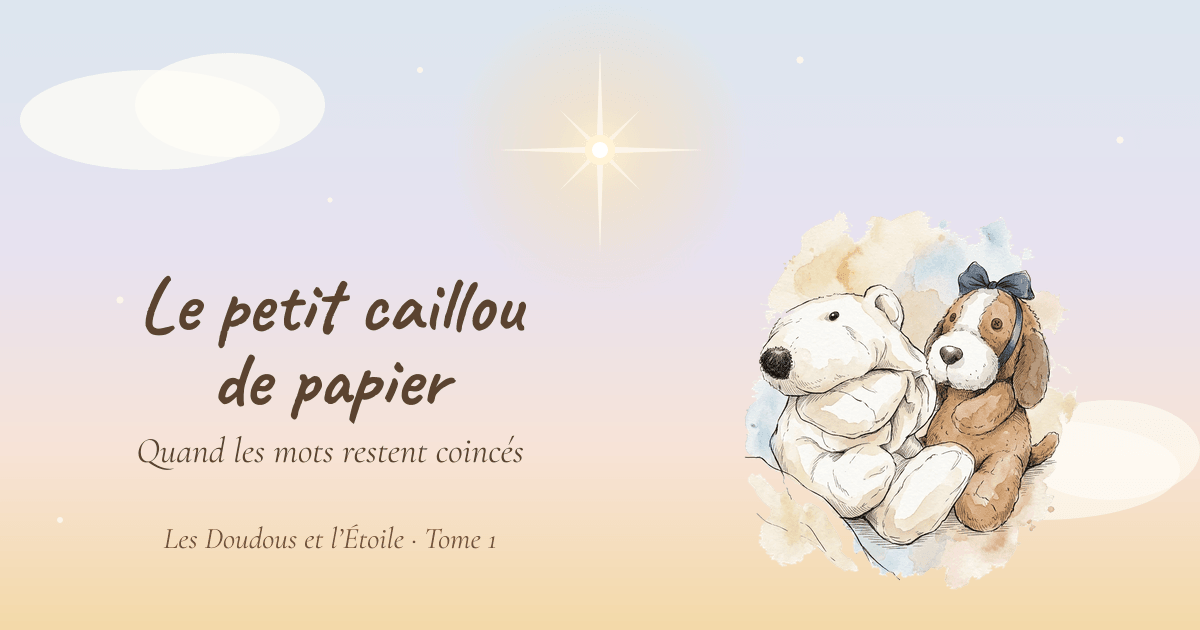
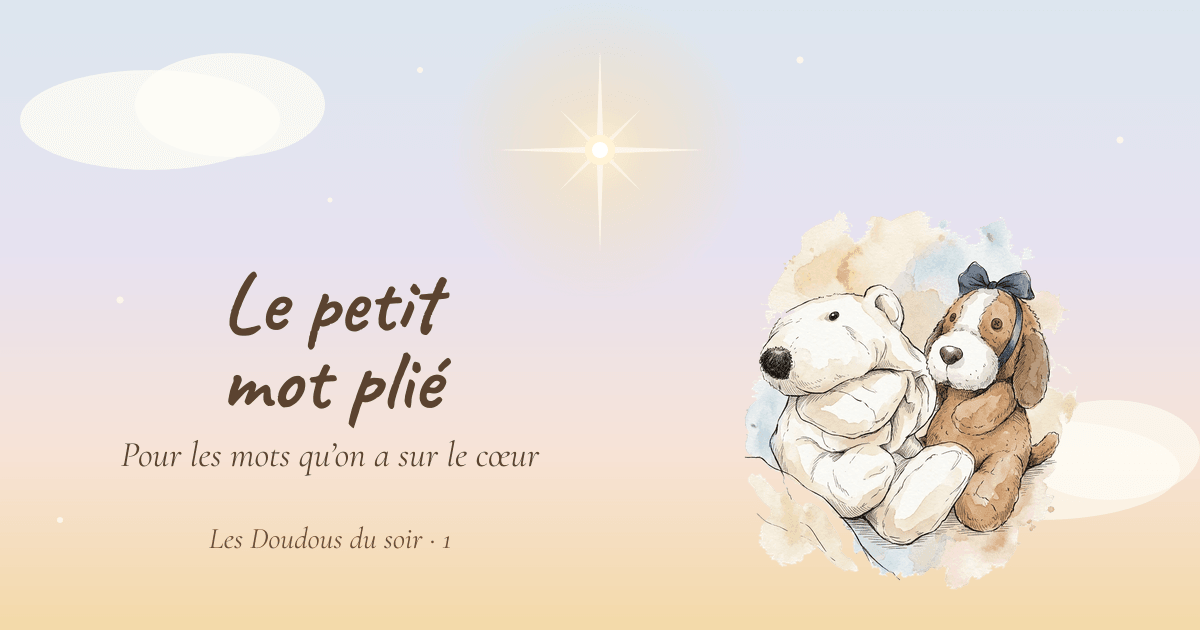
Le tome 1 s'appelle « Le petit mot plié » : titre, sous-titre, promesse de la série, image de partage, fiche, audio, menu, mentions

diff --git a/le-livre.html b/le-livre.html
@@ -9,14 +9,14 @@
 <meta property="og:image" content="https://www.lafilleaustylorose.com/images/partage.png">
 <meta property="og:image:width" content="1200"><meta property="og:image:height" content="630">
 <meta property="og:type" content="website"><meta property="og:locale" content="fr_FR">
-<meta property="og:description" content="Le petit caillou de papier, Les Doudous du soir · Tome 1 : certains soirs, les mots ont envie de sortir… et restent coincés.">
+<meta property="og:description" content="Le petit mot plié, Les Doudous du soir · Tome 1 : ce soir, un mot reste coincé… Des histoires du soir pour les grandes émotions des petits.">
 <meta property="og:url" content="https://www.lafilleaustylorose.com/le-livre.html">
-<meta property="og:image:alt" content="Le petit caillou de papier, Les Doudous et l'Étoile : l'Étoile et les Doudous dans le ciel du soir">
+<meta property="og:image:alt" content="Le petit mot plié, Les Doudous du soir : l'Étoile et les Doudous dans le ciel du soir">
 <meta name="twitter:card" content="summary_large_image">
 <!-- TODO (avant le lancement public) : retirer la ligne noindex ci-dessous ET vider robots.txt -->
 <meta name="robots" content="noindex, nofollow">
 <!-- TODO : description de la page -->
-<meta name="description" content="Le petit caillou de papier, Les Doudous du soir · Tome 1 : certains soirs, les mots ont envie de sortir… et restent coincés.">
+<meta name="description" content="Le petit mot plié, Les Doudous du soir · Tome 1 : ce soir, un mot reste coincé… Des histoires du soir pour les grandes émotions des petits.">
 <meta name="theme-color" content="#EFE3CE">
 <link rel="icon" href="favicon.svg" type="image/svg+xml">
 <link rel="icon" href="favicon-32.png" sizes="32x32" type="image/png">
@@ -52,25 +52,26 @@
   <!-- EMPLACEMENT IMAGE : quand la vraie couverture existe, remplacer tout le <div class="couverture"> par
        <img class="format-livre" src="images/livres/livre-1-couverture.webp" width="300" height="400" alt="…"> -->
   <div class="cadre-aquarelle cadre-livre apparait">
-   <div class="couverture" role="img" aria-label="Couverture provisoire : Le petit caillou de papier">
+   <div class="couverture" role="img" aria-label="Couverture provisoire : Le petit mot plié">
     <span class="couv-collection">Les Doudous du soir</span>
     <span class="couv-etoile" aria-hidden="true"><svg viewBox="-100 -100 200 200" focusable="false"><circle r="110" fill="url(#couv-degrade)"/><defs><radialGradient id="couv-degrade"><stop offset="0" stop-color="#FFF3D6"/><stop offset=".35" stop-color="#FAE2B8" stop-opacity=".5"/><stop offset="1" stop-color="#F6D9A8" stop-opacity="0"/></radialGradient></defs><path d="M0 -70 L3 -3 L70 0 L3 3 L0 70 L-3 3 L-70 0 L-3 -3Z" fill="#FFF3D6"/><path d="M0 -38 L2.2 -2.2 L38 0 L2.2 2.2 L0 38 L-2.2 2.2 L-38 0 L-2.2 -2.2Z" fill="#FFF3D6" fill-opacity=".8" transform="rotate(45)"/><circle r="9" fill="#FFFFFF"/></svg></span>
-    <span class="couv-titre">Le petit caillou<br>de papier</span>
-    <span class="couv-sous">Quand les mots restent coincés</span>
+    <span class="couv-titre">Le petit<br>mot plié</span>
+    <span class="couv-sous">Pour les mots qu’on a sur le cœur</span>
     <span class="couv-caillou" aria-hidden="true"></span>
     <span class="couv-autrice">La fille au stylo rose</span>
    </div>
   </div>
   <div class="livre-texte apparait">
    <p class="collection">Les Doudous du soir · Tome 1</p>
-   <h2>Le petit caillou de papier</h2>
-   <p class="sous-titre">Quand les mots restent coincés</p>
+   <p class="promesse">Des histoires du soir pour les grandes émotions des petits</p>
+   <h2>Le petit mot plié</h2>
+   <p class="sous-titre">Pour les mots qu’on a sur le cœur</p>
    <p class="etiquette">Bientôt disponible</p>
    <!-- Résumé : texte de Nath -->
    <div class="resume">
-    <p class="chapeau">Certains soirs, les mots ont envie de sortir… et restent coincés. Lili joue du piano quand un mot, plus gros que les autres, se cache tout au fond d’elle.</p>
+    <p class="chapeau">Ce soir, un mot reste coincé… Lili joue du piano quand un mot, plus gros que les autres, se cache tout au fond d’elle.</p>
     <p>Doudou Tout-Mou, petit ours farceur et bavard, et son grand frère Doudou Grosse Tête, vieux chien rigolo qui sait toujours avant tout le monde, vont l’accompagner, tout doucement, guidés par leur Étoile.</p>
-    <p>Une histoire du soir pour les enfants de 4 à 7 ans qui gardent leurs mots pour eux ou ont peur de déranger. Au fil des pages, l’enfant découvre des gestes simples à refaire chez lui : la main sur le cœur et la respiration, le stylo qui montre le chemin, et le petit caillou de papier à garder dans sa poche.</p>
+    <p>Une histoire du soir pour les enfants de 4 à 7 ans qui gardent leurs mots pour eux ou ont peur de déranger. Au fil des pages, l’enfant découvre des gestes simples à refaire chez lui : la main sur le cœur et la respiration, le stylo qui montre le chemin, et le petit mot plié à garder dans sa poche.</p>
     <p class="resume-ecoute">L’histoire est aussi à écouter, racontée par l’autrice, avec la douceur de ses bols chantants.</p>
    </div>
    <p class="age"><strong>Âge conseillé :</strong> de 4 à 7 ans</p>
@@ -119,7 +120,7 @@
  <section class="bandeau bandeau-or apparait ou-trouver" aria-labelledby="ou-trouver" hidden>
   <h2 id="ou-trouver">Où trouver le livre</h2>
   <p class="sous-titre">Sortie le <time datetime="2026-00-00">[date de sortie]</time></p>
-  <p>Le petit caillou de papier sera disponible en librairie et en ligne.</p>
+  <p>Le petit mot plié sera disponible en librairie et en ligne.</p>
   <p><a class="bouton" href="[adresse de la boutique]" rel="noopener">Commander le livre</a></p>
  </section>
  <!-- ===== EMPLACEMENT CACHÉ : « Feuilleter » (2 ou 3 doubles pages illustrées de Sylvia). Déposer les images dans images/pages/feuilleter-1.webp, -2, -3 (1600 × 1000 environ), remplir les alt, retirer hidden. ===== -->

diff --git a/ecouter.html b/ecouter.html
@@ -9,14 +9,14 @@
 <meta property="og:image" content="https://www.lafilleaustylorose.com/images/partage.png">
 <meta property="og:image:width" content="1200"><meta property="og:image:height" content="630">
 <meta property="og:type" content="website"><meta property="og:locale" content="fr_FR">
-<meta property="og:description" content="Le petit caillou de papier, raconté par l'autrice.">
+<meta property="og:description" content="Le petit mot plié, raconté par l'autrice.">
 <meta property="og:url" content="https://www.lafilleaustylorose.com/ecouter">
-<meta property="og:image:alt" content="Le petit caillou de papier, Les Doudous et l'Étoile : l'Étoile et les Doudous dans le ciel du soir">
+<meta property="og:image:alt" content="Le petit mot plié, Les Doudous du soir : l'Étoile et les Doudous dans le ciel du soir">
 <meta name="twitter:card" content="summary_large_image">
 <!-- TODO (avant le lancement public) : retirer la ligne noindex ci-dessous ET vider robots.txt -->
 <meta name="robots" content="noindex, nofollow">
 <!-- TODO : description de la page -->
-<meta name="description" content="Le petit caillou de papier, raconté par l'autrice.">
+<meta name="description" content="Le petit mot plié, raconté par l'autrice.">
 <meta name="theme-color" content="#EFE3CE">
 <link rel="icon" href="favicon.svg" type="image/svg+xml">
 <link rel="icon" href="favicon-32.png" sizes="32x32" type="image/png">
@@ -46,11 +46,11 @@
 </header>
 <main id="contenu">
 <div class="contenu page-ecouter">
- <header class="page-tete"><h1>Écouter l'histoire</h1><p class="mot-doux">Le petit caillou de papier, raconté par l'autrice</p></header>
+ <header class="page-tete"><h1>Écouter l'histoire</h1><p class="mot-doux">Le petit mot plié, raconté par l'autrice</p></header>
  <section class="bandeau bandeau-bleu apparait ecouter-bloc" aria-labelledby="ecoute">
   <h2 id="ecoute">L'enregistrement arrive bientôt.</h2>
-  <!-- EMPLACEMENT AUDIO : déposer le fichier sons/le-petit-caillou-de-papier.mp3, puis retirer l'attribut hidden ci-dessous. Aucune inscription, aucune vente. -->
-  <audio class="lecteur" controls preload="none" src="sons/le-petit-caillou-de-papier.mp3" hidden>Votre navigateur ne sait pas lire ce fichier audio.</audio>
+  <!-- EMPLACEMENT AUDIO : déposer le fichier sons/le-petit-mot-plie.mp3, puis retirer l'attribut hidden ci-dessous. Aucune inscription, aucune vente. -->
+  <audio class="lecteur" controls preload="none" src="sons/le-petit-mot-plie.mp3" hidden>Votre navigateur ne sait pas lire ce fichier audio.</audio>
   <p class="etiquette">Bientôt disponible</p>
   <!-- Le texte de l'histoire, à lire en même temps : Nath le fournira. -->
   <details class="texte-histoire">

diff --git a/parents.html b/parents.html
@@ -11,7 +11,7 @@
 <meta property="og:type" content="website"><meta property="og:locale" content="fr_FR">
 <meta property="og:description" content="Les astuces des Doudous : des gestes simples à refaire à la maison.">
 <meta property="og:url" content="https://www.lafilleaustylorose.com/parents.html">
-<meta property="og:image:alt" content="Le petit caillou de papier, Les Doudous et l'Étoile : l'Étoile et les Doudous dans le ciel du soir">
+<meta property="og:image:alt" content="Le petit mot plié, Les Doudous du soir : l'Étoile et les Doudous dans le ciel du soir">
 <meta name="twitter:card" content="summary_large_image">
 <!-- TODO (avant le lancement public) : retirer la ligne noindex ci-dessous ET vider robots.txt -->
 <meta name="robots" content="noindex, nofollow">
@@ -52,7 +52,7 @@
   <ul class="grille">
   <li class="carte carte-pli apparait"><details><summary><h3>La main sur le cœur et la respiration</h3></summary><p>Le soir, posez doucement votre main sur le cœur de votre enfant, ou invitez-le à poser la sienne. Respirez lentement, ensemble, sans rien dire. Vous pouvez lui proposer d'imaginer une petite lumière qui grandit sous sa main… et son cœur qui rayonne. Quelques respirations suffisent.</p></details></li>
   <li class="carte carte-pli apparait"><details><summary><h3>Le stylo qui montre le chemin</h3></summary><p>Quand les mots ont du mal à sortir par la bouche, ils trouvent parfois un autre chemin. Proposez une feuille et un crayon : un dessin, quelques traits, un mot écrit… Tout est bienvenu. Votre enfant peut ensuite vous le montrer, ou le garder pour lui.</p></details></li>
-  <li class="carte carte-pli apparait"><details><summary><h3>Le petit caillou de papier dans la poche</h3></summary><p>Pliez la feuille en deux, encore en deux, et encore en deux, jusqu'à obtenir un petit caillou de papier. Votre enfant peut le glisser dans sa poche ou sous son oreiller. Quand il le touche, il se souvient que ses mots ont leur place, et qu'ils trouveront leur chemin, à son rythme.</p></details></li>
+  <li class="carte carte-pli apparait"><details><summary><h3>Le petit mot plié, à garder dans la poche</h3></summary><p>Pliez la feuille en deux, encore en deux, et encore en deux, jusqu'à obtenir un petit caillou de papier. Votre enfant peut le glisser dans sa poche ou sous son oreiller. Quand il le touche, il se souvient que ses mots ont leur place, et qu'ils trouveront leur chemin, à son rythme.</p></details></li>
   </ul>
  </section>
  <section class="bandeau apparait" aria-labelledby="fiche">

diff --git a/mentions-legales.html b/mentions-legales.html
@@ -11,7 +11,7 @@
 <meta property="og:type" content="website"><meta property="og:locale" content="fr_FR">
 <meta property="og:description" content="Mentions légales du site Les Doudous et l'Étoile.">
 <meta property="og:url" content="https://www.lafilleaustylorose.com/mentions-legales.html">
-<meta property="og:image:alt" content="Le petit caillou de papier, Les Doudous et l'Étoile : l'Étoile et les Doudous dans le ciel du soir">
+<meta property="og:image:alt" content="Le petit mot plié, Les Doudous du soir : l'Étoile et les Doudous dans le ciel du soir">
 <meta name="twitter:card" content="summary_large_image">
 <!-- TODO (avant le lancement public) : retirer la ligne noindex ci-dessous ET vider robots.txt -->
 <meta name="robots" content="noindex, nofollow">
@@ -62,7 +62,7 @@
   <p>Lettre d'information : si vous vous inscrivez à la lettre des Doudous et l'Étoile, votre adresse e-mail est confiée à Brevo (Sendinblue SAS, 7 rue de Madrid, 75008 Paris), qui l'héberge en Union européenne, uniquement pour vous envoyer la lettre et la fiche de bienvenue. L'inscription demande une double confirmation. Vous pouvez vous désinscrire à tout moment par le lien présent dans chaque lettre, ou en écrivant à l'adresse de contact ci-dessus ; votre adresse est alors supprimée. Aucune autre donnée n'est collectée, et aucune adresse n'est transmise à des tiers.</p>
  -->
  <section class="section" aria-labelledby="donnees"><h2 id="donnees">Données personnelles et cookies</h2>
-  <p>Ce site ne dépose aucun cookie et n'utilise aucun outil de statistiques ni de suivi. Le choix « Réduire les animations » est gardé dans la mémoire de l'onglet le temps de la visite (sessionStorage) et n'est envoyé nulle part. Les formulaires de lettre d'information ne sont pas encore en service : aucune adresse e-mail n'est collectée pour l'instant.</p></section>
+  <p>Ce site ne dépose aucun cookie et n'utilise aucun outil de statistiques ni de suivi. Les choix « Réduire les animations » et « Mode veilleuse » sont gardés dans la mémoire de l'onglet le temps de la visite (sessionStorage) : rien n'est envoyé nulle part, et tout s'efface à la fermeture de l'onglet. Les formulaires de lettre d'information ne sont pas encore en service : aucune adresse e-mail n'est collectée pour l'instant.</p></section>
 </div>
 </main>
 <footer class="pied">

diff --git a/css/accueil.css b/css/accueil.css
@@ -372,6 +372,8 @@ html.calme .note-doudou{display:none}
   transition:opacity 1.4s ease .4s,transform 1.4s ease .4s}
 .js .scene:not(.revele) .accueil-liens{opacity:0;transform:translateY(10px)}
 .accueil-liens .bouton{text-decoration:none;display:inline-flex;align-items:center;padding:.6rem 1.4rem}
+.promesse-accueil{flex-basis:100%;text-align:center;margin:.3rem 0 0;font-size:clamp(1.05rem,2.2vh,1.25rem);color:var(--encre-douce)}
+html.nuit-mode .promesse-accueil{color:#F1E7D6}
 html.calme .accueil-liens{transition:none}
 .fleche{display:none;
   position:absolute;left:50%;bottom:.9rem;width:1.75rem;height:1.75rem;margin-left:-.875rem;z-index:1;
@@ -402,7 +404,7 @@ html.calme .accueil-liens{transition:none}
 @media (max-width:47.99rem){
   .scene{--haut:760px}
   .scene-contenu{padding-top:3.4rem}
-  .doudous{margin-top:11.5rem;margin-bottom:5rem}   /* place pour les deux boutons */
+  .doudous{margin-top:11.5rem;margin-bottom:6.8rem}   /* place pour les deux boutons et la promesse */
   .chapeau-accueil{margin-top:2.4rem}   /* sous la pastille « Réduire les animations » */
   .calmer{top:.5rem;right:.6rem;font-size:.8rem;padding:.2rem .7rem;min-height:0;line-height:1.3;border-width:1px}
   .calmer::after{content:"";position:absolute;inset:-9px -6px}
@@ -417,7 +419,7 @@ html.calme .accueil-liens{transition:none}
   .chapeau-accueil{margin-top:1rem}
   .doudou-duo{width:clamp(300px,46vh,560px)}   /* grands Doudous : ils remplissent le ciel */
   .chapeau-accueil{font-size:clamp(1.5rem,2.6vh,1.9rem);max-width:36rem}
-  .doudous{margin-bottom:clamp(5rem,8vh,6.5rem)}   /* place pour les deux boutons */   /* les Doudous flottent au-dessus du bas de la scène */
+  .doudous{margin-bottom:clamp(6.5rem,10vh,8rem)}   /* place pour les deux boutons et la promesse */   /* les Doudous flottent au-dessus du bas de la scène */
 }
 @media (max-height:520px){
   .parcours{height:320vh}

diff --git a/css/style.css b/css/style.css
@@ -452,7 +452,7 @@ html.calme::view-transition-group(*),html.calme::view-transition-old(*),html.cal
 .cadre-livre img{aspect-ratio:3/4;transform-origin:50% 100%;animation:balance-livre 9s ease-in-out infinite alternate}
 @keyframes balance-livre{0%{transform:rotate(-1.4deg) translateY(0)}100%{transform:rotate(1.4deg) translateY(-3px)}}
 .cadre-livre{overflow:visible}
-/* Couverture provisoire composée en CSS : ciel du soir, l'Étoile, le titre, un petit caillou de papier */
+/* Couverture provisoire composée en CSS : ciel du soir, l'Étoile, le titre, un petit mot plié */
 .couverture{position:relative;aspect-ratio:3/4;border-radius:18px;overflow:hidden;display:flex;flex-direction:column;align-items:center;text-align:center;padding:1rem .8rem;
   background:radial-gradient(ellipse 80% 50% at 50% 22%,#FFF3D6 0%,rgba(255,243,214,0) 70%),linear-gradient(180deg,#F3D9A8 0%,#E8B98A 45%,#C9A5A2 80%,#8E86A8 100%);
   box-shadow:inset 0 0 0 1px rgba(255,246,222,.5),inset 0 -40px 60px -30px rgba(94,86,130,.35);
@@ -472,6 +472,7 @@ html.calme .couverture{animation:none}
 }
 @keyframes reflet{0%,70%{transform:skewX(-12deg) translateX(0)}100%{transform:skewX(-12deg) translateX(520%)}}
 html.calme .cadre-livre img,html.calme .couverture::after{animation:none}
+.promesse{font-family:var(--police-fine);font-style:italic;font-weight:500;font-size:1.15rem;line-height:1.4;color:var(--brun-fonce);margin:0 0 .6rem}
 .livre-texte h2{margin-bottom:.1em}
 .livre-texte .sous-titre{margin:0 0 .9rem;font-size:clamp(1.25rem,4.2vw,1.5rem)}
 .resume{max-width:36rem}

diff --git a/index.html b/index.html
@@ -11,7 +11,7 @@
 <meta property="og:type" content="website"><meta property="og:locale" content="fr_FR">
 <meta property="og:description" content="Les Doudous et l'Étoile : des histoires du soir tout en douceur, pour les enfants de 4 à 7 ans.">
 <meta property="og:url" content="https://www.lafilleaustylorose.com/">
-<meta property="og:image:alt" content="Le petit caillou de papier, Les Doudous et l'Étoile : l'Étoile et les Doudous dans le ciel du soir">
+<meta property="og:image:alt" content="Le petit mot plié, Les Doudous du soir : l'Étoile et les Doudous dans le ciel du soir">
 <meta name="twitter:card" content="summary_large_image">
 <!-- TODO (avant le lancement public) : retirer la ligne noindex ci-dessous ET vider robots.txt -->
 <meta name="robots" content="noindex, nofollow">
@@ -43,7 +43,7 @@
     <li><a href="le-livre.html">Le livre</a></li>
     <li><a href="l-univers.html">L'univers</a></li>
     <li><a href="l-etoile.html">L'Étoile</a></li>
-    <li><a href="parents.html">Les astuces des Doudous</a></li>
+    <li><a href="parents.html">Les astuces</a></li>
    </ul>
   </nav>
  </div>
@@ -144,6 +144,7 @@
    <nav class="accueil-liens" aria-label="Pour continuer">
     <a class="bouton" href="le-livre.html">Découvrir le livre</a>
     <a class="bouton bouton-doux" href="l-etoile.html">L’Étoile</a>
+    <p class="promesse promesse-accueil">Des histoires du soir pour les grandes émotions des petits</p>
    </nav>
   </div>
  </div>

diff --git a/l-univers.html b/l-univers.html
@@ -11,7 +11,7 @@
 <meta property="og:type" content="website"><meta property="og:locale" content="fr_FR">
 <meta property="og:description" content="Lili, Doudou Tout-Mou, Doudou Grosse Tête et leur Étoile.">
 <meta property="og:url" content="https://www.lafilleaustylorose.com/l-univers.html">
-<meta property="og:image:alt" content="Le petit caillou de papier, Les Doudous et l'Étoile : l'Étoile et les Doudous dans le ciel du soir">
+<meta property="og:image:alt" content="Le petit mot plié, Les Doudous du soir : l'Étoile et les Doudous dans le ciel du soir">
 <meta name="twitter:card" content="summary_large_image">
 <!-- TODO (avant le lancement public) : retirer la ligne noindex ci-dessous ET vider robots.txt -->
 <meta name="robots" content="noindex, nofollow">

diff --git a/l-etoile.html b/l-etoile.html
@@ -11,7 +11,7 @@
 <meta property="og:type" content="website"><meta property="og:locale" content="fr_FR">
 <meta property="og:description" content="Elle brille en veillant sur nous, reliée à notre cœur.">
 <meta property="og:url" content="https://www.lafilleaustylorose.com/l-etoile.html">
-<meta property="og:image:alt" content="Le petit caillou de papier, Les Doudous et l'Étoile : l'Étoile et les Doudous dans le ciel du soir">
+<meta property="og:image:alt" content="Le petit mot plié, Les Doudous du soir : l'Étoile et les Doudous dans le ciel du soir">
 <meta name="twitter:card" content="summary_large_image">
 <!-- TODO (avant le lancement public) : retirer la ligne noindex ci-dessous ET vider robots.txt -->
 <meta name="robots" content="noindex, nofollow">

diff --git a/404.html b/404.html
@@ -11,7 +11,7 @@
 <meta property="og:type" content="website"><meta property="og:locale" content="fr_FR">
 <meta property="og:description" content="Cette page n'existe pas.">
 <meta property="og:url" content="https://www.lafilleaustylorose.com/404.html">
-<meta property="og:image:alt" content="Le petit caillou de papier, Les Doudous et l'Étoile : l'Étoile et les Doudous dans le ciel du soir">
+<meta property="og:image:alt" content="Le petit mot plié, Les Doudous du soir : l'Étoile et les Doudous dans le ciel du soir">
 <meta name="twitter:card" content="summary_large_image">
 <!-- TODO (avant le lancement public) : retirer la ligne noindex ci-dessous ET vider robots.txt -->
 <meta name="robots" content="noindex, nofollow">
